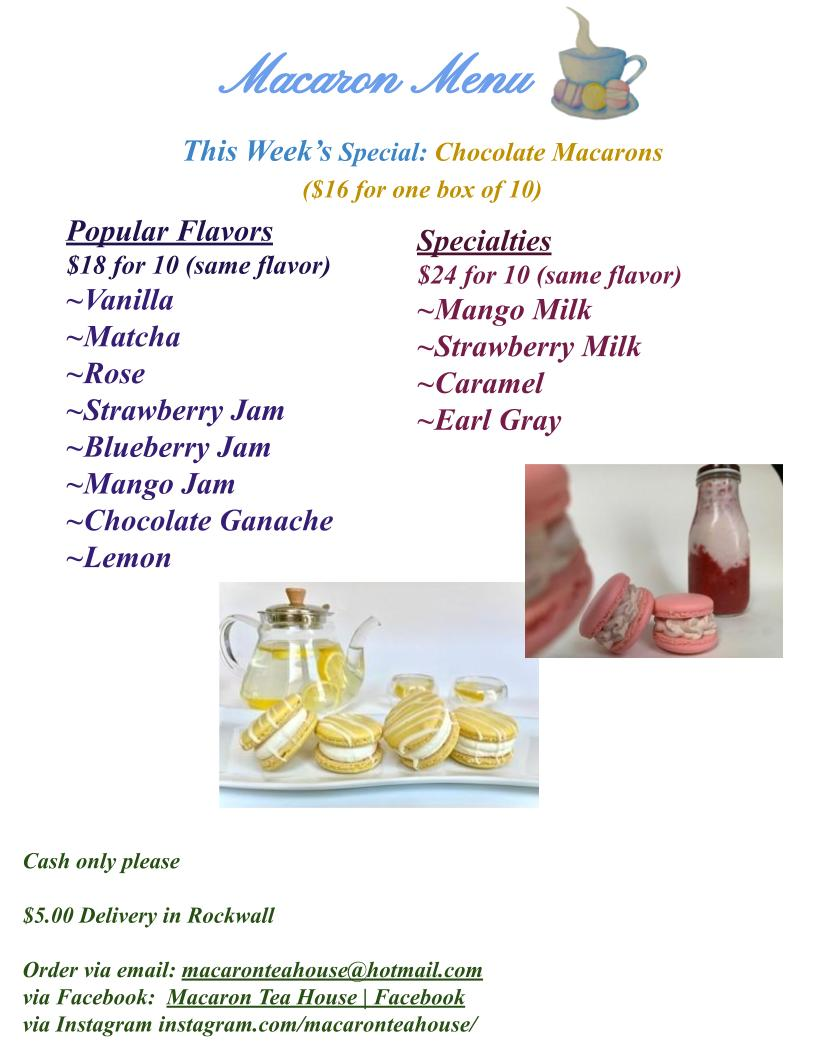
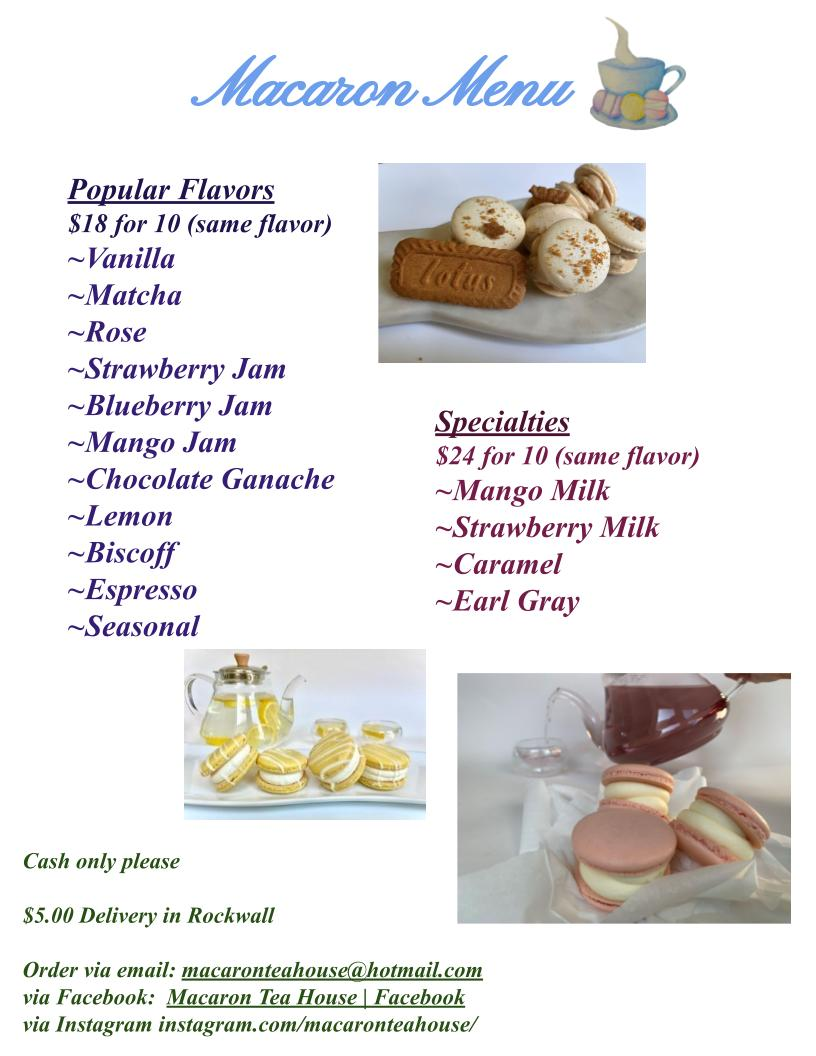
updatttteeeeeee

diff --git a/Espresso.html b/Espresso.html
@@ -1,6 +1,6 @@
 <html>
 <head>
-	<title> Rose Macarons </title>
+	<title> Espresso Macarons </title>
 	<style type="text/css">
 	html {background-color:#E6E6E6}
 	p {
@@ -15,14 +15,14 @@
 		width:23%;
 		margin:auto;
 		}
-		#rose{
+		#lemon{
 			float: left;
 			width: 60%;
 			margin: auto ;
 			position: relative;
 			top: 10px; }
 
-		#roser{
+		#lemonl{
 			float: right;
 			width:40%;
 			margin:auto;
@@ -63,17 +63,19 @@
 
 <body>
 <container id="title">
-	<h1> <p style="font-size:200%; width:100%"> <b> <i> Rose Macarons </b> </i> </p> </h1>
+	<h1> <p style="font-size:200%; width:100%"> <b> <i> Espresso Macarons </b> </i> </p> </h1>
 </container>
 <container id="info">
-	<div id="roser">
-		<img src="Pictures/rose1.jpg" width="80%" height="auto">
+	<div id="lemonl">
+		<img src="Pictures/espresso2.jpg" width="80%" height="auto">
 	</div>
-	<div id="rose">
-		<p style="font-size:150%;color:#05b09f" width="100%" height="auto">	This cookie has a mildly sweet and unique flavor.
-			It tastes like how a rose smells. It can be enjoyed with a cup of rose tea.
-			The cookie has a crunchy exterior with a soft interior.
-			Remember to let it sit out at room temperature for 15-20 minutes before eating. $18.00 for 10 macarons. </p>
+	<div id="lemon">
+		<p style="font-size:150%;color:#05b09f" width="100%" height="auto">
+		This macaron has a sweet and distinct coffee flavored filling in between two slightly crunchy and chewy shells
+		The slight bitterness from the espresso is perfectly balanced out with the sweetness
+		from the cream. Remember to take it out
+		of the fidge and set it at room temperature for 15-20 minutes. $18.00 for 10 macarons.
+		</p>
 	</div>
 </container>
 <container id= "both">
@@ -81,15 +83,12 @@
 <p style="font-size:160%; color:#000000; position:relative; width:60%; margin:auto"> <u>Ingredients</u> <br>
 ~blanched almond flour <br> ~powdered sugar <br> ~free range egg whites
 <br> ~organic unbleached cane sugar <br> ~cream of tartar
-<br> ~fresh cream <br> ~organic rose water
+<br> ~fresh cream <br> ~lemon <br>~ fresh espresso
 </div>
 
 	<div id="button-4">
 	<p style="position:relative; width:100%; margin:auto"> <a href="A_Order.html"> Order Here!</a> </p>
 	</div>
 </container>
-		</p>
-	</div>
-
 </body>
 </html>

diff --git a/Seasonal.html b/Seasonal.html
@@ -1,6 +1,6 @@
 <html>
 <head>
-	<title> Rose Macarons </title>
+	<title> Seasonal Macarons </title>
 	<style type="text/css">
 	html {background-color:#E6E6E6}
 	p {
@@ -15,14 +15,14 @@
 		width:23%;
 		margin:auto;
 		}
-		#rose{
+		#lemon{
 			float: left;
 			width: 60%;
 			margin: auto ;
 			position: relative;
 			top: 10px; }
 
-		#roser{
+		#lemonl{
 			float: right;
 			width:40%;
 			margin:auto;
@@ -63,17 +63,18 @@
 
 <body>
 <container id="title">
-	<h1> <p style="font-size:200%; width:100%"> <b> <i> Rose Macarons </b> </i> </p> </h1>
+	<h1> <p style="font-size:200%; width:100%"> <b> <i> Maple Macarons </b> </i> </p> </h1>
 </container>
 <container id="info">
-	<div id="roser">
-		<img src="Pictures/rose1.jpg" width="80%" height="auto">
+	<div id="lemonl">
+		<img src="Pictures/biscofff.jpg" width="80%" height="auto">
 	</div>
-	<div id="rose">
-		<p style="font-size:150%;color:#05b09f" width="100%" height="auto">	This cookie has a mildly sweet and unique flavor.
-			It tastes like how a rose smells. It can be enjoyed with a cup of rose tea.
-			The cookie has a crunchy exterior with a soft interior.
-			Remember to let it sit out at room temperature for 15-20 minutes before eating. $18.00 for 10 macarons. </p>
+	<div id="lemon">
+		<p style="font-size:150%;color:#05b09f" width="100%" height="auto">
+		This macaron has a unique maple flavor balanced out by the creaminess of the filling.
+    It is perfect for a cold fall day with a cup of hot apple cider.
+    Remember to take it out of the fridge and set it at room temperature for 15-20 minutes. $18.00 for 10 macarons.
+		</p>
 	</div>
 </container>
 <container id= "both">
@@ -81,15 +82,12 @@
 <p style="font-size:160%; color:#000000; position:relative; width:60%; margin:auto"> <u>Ingredients</u> <br>
 ~blanched almond flour <br> ~powdered sugar <br> ~free range egg whites
 <br> ~organic unbleached cane sugar <br> ~cream of tartar
-<br> ~fresh cream <br> ~organic rose water
+<br> ~fresh cream <br> ~lemon <br>~organic maple syrup
 </div>
 
 	<div id="button-4">
 	<p style="position:relative; width:100%; margin:auto"> <a href="A_Order.html"> Order Here!</a> </p>
 	</div>
 </container>
-		</p>
-	</div>
-
 </body>
 </html>

diff --git a/Biscoff.html b/Biscoff.html
@@ -1,6 +1,6 @@
 <html>
 <head>
-	<title> Rose Macarons </title>
+	<title> Biscoff Macarons </title>
 	<style type="text/css">
 	html {background-color:#E6E6E6}
 	p {
@@ -15,14 +15,14 @@
 		width:23%;
 		margin:auto;
 		}
-		#rose{
+		#lemon{
 			float: left;
 			width: 60%;
 			margin: auto ;
 			position: relative;
 			top: 10px; }
 
-		#roser{
+		#lemonl{
 			float: right;
 			width:40%;
 			margin:auto;
@@ -63,17 +63,18 @@
 
 <body>
 <container id="title">
-	<h1> <p style="font-size:200%; width:100%"> <b> <i> Rose Macarons </b> </i> </p> </h1>
+	<h1> <p style="font-size:200%; width:100%"> <b> <i> Biscoff Macarons </b> </i> </p> </h1>
 </container>
 <container id="info">
-	<div id="roser">
-		<img src="Pictures/rose1.jpg" width="80%" height="auto">
+	<div id="lemonl">
+		<img src="Pictures/biscoff.jpg" width="80%" height="auto">
 	</div>
-	<div id="rose">
-		<p style="font-size:150%;color:#05b09f" width="100%" height="auto">	This cookie has a mildly sweet and unique flavor.
-			It tastes like how a rose smells. It can be enjoyed with a cup of rose tea.
-			The cookie has a crunchy exterior with a soft interior.
-			Remember to let it sit out at room temperature for 15-20 minutes before eating. $18.00 for 10 macarons. </p>
+	<div id="lemon">
+		<p style="font-size:150%;color:#05b09f" width="100%" height="auto">
+		This macaron has a distinct biscoff flavor. It is soft on the inside but has a little crunch and
+    is reminiscent of the cookies from airplane flights.
+    Remember to take it out of the fridge and set it at room temperature for 15-20 minutes. $18.00 for 10 macarons.
+		</p>
 	</div>
 </container>
 <container id= "both">
@@ -81,15 +82,12 @@
 <p style="font-size:160%; color:#000000; position:relative; width:60%; margin:auto"> <u>Ingredients</u> <br>
 ~blanched almond flour <br> ~powdered sugar <br> ~free range egg whites
 <br> ~organic unbleached cane sugar <br> ~cream of tartar
-<br> ~fresh cream <br> ~organic rose water
+<br> ~fresh cream <br> ~lemon <br>~biscoff cookies
 </div>
 
 	<div id="button-4">
 	<p style="position:relative; width:100%; margin:auto"> <a href="A_Order.html"> Order Here!</a> </p>
 	</div>
 </container>
-		</p>
-	</div>
-
 </body>
 </html>

diff --git a/index.html b/index.html
@@ -62,6 +62,21 @@
 			position:relative;
 			width:30%;
 		}
+		#Biscoff{
+			position:relative;
+			width:30%;
+
+		}
+		#Espresso{
+			position:relative;
+			width:30%;
+
+		}
+		#Seasonal{
+			position:relative;
+			width:30%;
+
+		}
 		#title{
 			 display: flex;
 				position:relative;
@@ -110,11 +125,19 @@
 			margin:auto;
 			top:250px;
 		}
+		#row-5{
+			display:flex;
+			justify-content: space-between;
+			position:relative;
+			width:95%;
+			margin:auto;
+			top:260px;
+		}
 		#macaron-menu{
 			position:relative;
 			width:100%;
 			margin:auto;
-			top:250px;
+			top:270px;
 		}
 	p {	color: #E2A9F3; }
 	a { text-decoration: none; }
@@ -233,6 +256,20 @@
  <img src="Pictures/matcha.jpg" width="100%" height="auto">
  <p style="position:relative;"><a href="pump.html"><u> Matcha Macarons </u>  </a href></p>
  </div>
+</div>
+ <div id="row-5">
+  <div id="Biscoff">
+  <img src="Pictures/biscoff2.jpg" width="100%" height="auto">
+  <p style="position:relative;"><a href="Biscoff.html"> <u> Biscoff Macarons </u> </a href> </p>
+  </div>
+  <div id="Espresso">
+  <img src="Pictures/espresso1.jpg" width="100%" height="auto">
+  <p style="position:relative;"><a href="Espresso.html"> <u> Espresso Macarons </u></a href> </p>
+  </div>
+  <div id="Seasonal">
+  <img src="Pictures/pumpkin1.jpg" width="100%" height="auto">
+  <p style="position:relative;"><a href="pump.html"><u> Seasonal Macarons </u>  </a href></p>
+  </div>
 </div>
  <div id="macaron-menu">
 	 <img src="Pictures/Macaron Menu 10.jpg" width="100%" height="auto">
